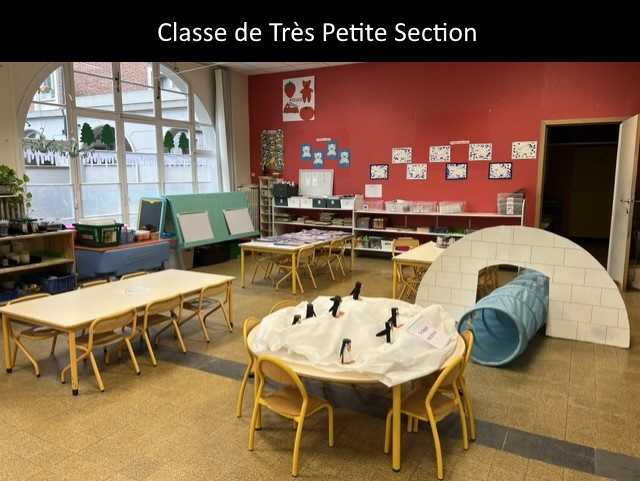
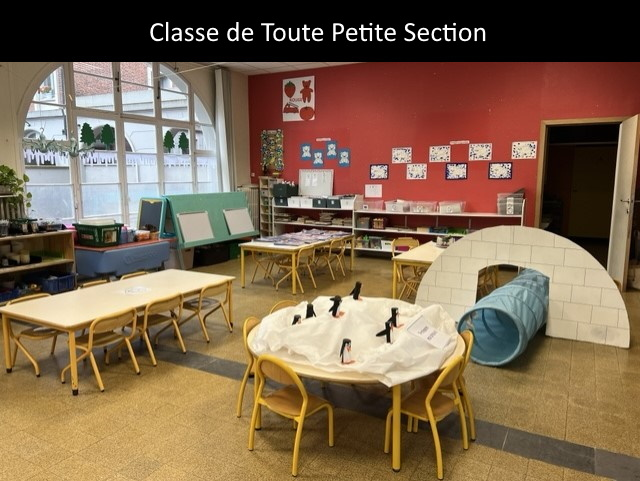
Toute petite section

Changed region(s): [[0.2188, 0.0312, 0.7812, 0.0936]]

diff --git a/project/src/Controller/ClasseController.php b/project/src/Controller/ClasseController.php
@@ -18,7 +18,7 @@ class ClasseController extends AbstractController
 
         if($class=="TPS"){
 
-            $className="tres petite section";
+            $className="toute petite section";
             $color = $maternelle;
             $img[0]="TPSBulteau\TPS_1.jpg";
             $img[1]="TPSBulteau\TPS_2.jpg";
